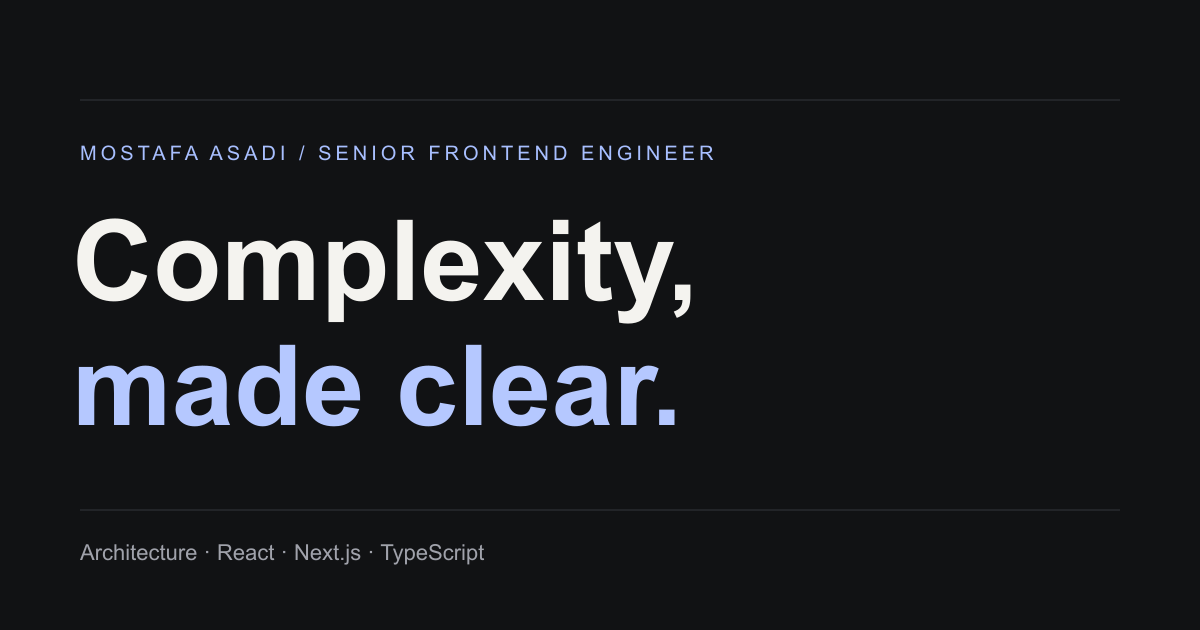
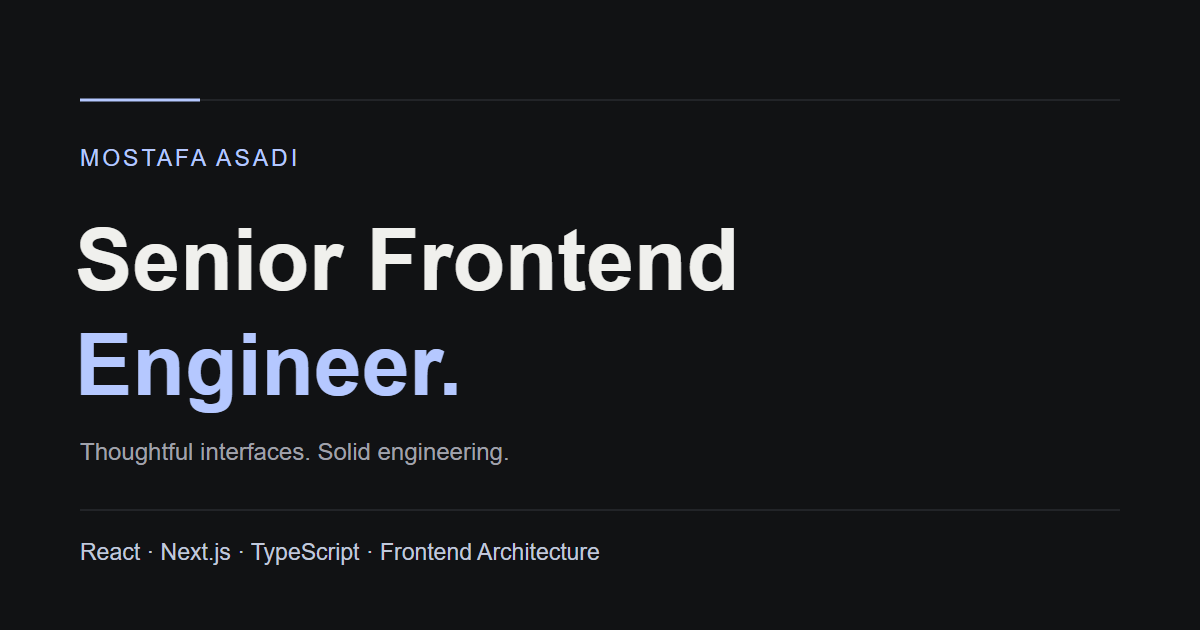
Improve portfolio SEO and search discovery metadata

diff --git a/tests/portfolio.spec.ts b/tests/portfolio.spec.ts
@@ -1,6 +1,27 @@
 import { test, expect } from '@playwright/test';
 import AxeBuilder from '@axe-core/playwright';
 
+test('SEO metadata, crawler files, and structured data describe the live site', async ({ page, request }) => {
+  await page.goto('/');
+  await expect(page).toHaveTitle('Mostafa Asadi | Senior Frontend Engineer, React & Next.js');
+  await expect(page.locator('link[rel="canonical"]')).toHaveAttribute('href', 'https://mostafaasadi3.github.io/');
+  await expect(page.locator('meta[property="og:image"]')).toHaveAttribute('content', 'https://mostafaasadi3.github.io/social-card.png');
+  const graph = JSON.parse(await page.locator('script[type="application/ld+json"]').innerText())['@graph'];
+  expect(graph.find((entity: { '@type': string }) => entity['@type'] === 'Person')).toMatchObject({ name: 'Mostafa Asadi', jobTitle: 'Senior Frontend Engineer', sameAs: ['https://github.com/MostafaAsadi3', 'https://www.linkedin.com/in/mostafa-asadi-78a597271/'] });
+  const sitemap = await request.get('/sitemap.xml');
+  expect(sitemap.ok()).toBeTruthy();
+  expect(await sitemap.text()).toContain('<loc>https://mostafaasadi3.github.io/resume/</loc>');
+  expect(await sitemap.text()).not.toContain('404');
+  const robots = await request.get('/robots.txt');
+  expect(await robots.text()).toContain('Sitemap: https://mostafaasadi3.github.io/sitemap.xml');
+  await page.goto('/resume/');
+  await expect(page.locator('link[rel="canonical"]')).toHaveAttribute('href', 'https://mostafaasadi3.github.io/resume/');
+  await expect(page.locator('meta[name="description"]')).toHaveAttribute('content', /resume: senior frontend engineering/);
+  await page.goto('/404.html');
+  await expect(page.locator('meta[name="robots"]')).toHaveAttribute('content', 'noindex, follow');
+  await expect(page.locator('link[rel="canonical"]')).toHaveCount(0);
+});
+
 test('engineering layers support pointer and keyboard selection and pause offscreen', async ({ page }) => {
   await page.emulateMedia({ reducedMotion: 'no-preference' });
   await page.goto('/');

diff --git a/src/pages/sitemap.xml.ts b/src/pages/sitemap.xml.ts
@@ -1,0 +1,11 @@
+import type { APIRoute } from 'astro';
+
+export const GET: APIRoute = ({ site }) => {
+  const base = import.meta.env.BASE_URL;
+  const pages = [base, `${base.replace(/\/$/, '')}/resume/`];
+  const escapeXml = (value: string) => value.replace(/&/g, '&amp;').replace(/</g, '&lt;').replace(/"/g, '&quot;');
+  return new Response(`<?xml version="1.0" encoding="UTF-8"?>
+<urlset xmlns="http://www.sitemaps.org/schemas/sitemap/0.9">${pages.map(path => `<url><loc>${escapeXml(new URL(path, site!).href)}</loc></url>`).join('')}</urlset>`, {
+    headers: { 'Content-Type': 'application/xml; charset=utf-8' },
+  });
+};

diff --git a/src/data/portfolio.ts b/src/data/portfolio.ts
@@ -5,7 +5,7 @@ export const profile = {
   github: 'https://github.com/MostafaAsadi3',
   linkedin: 'https://www.linkedin.com/in/mostafa-asadi-78a597271/',
   description:
-    'Senior Frontend Engineer focused on frontend architecture, React, Next.js, TypeScript, and thoughtful web experiences.',
+    'Mostafa Asadi, Senior Frontend Engineer specializing in React, Next.js and TypeScript. Explore banking projects, frontend architecture and selected work.',
 };
 
 export interface Expertise {

diff --git a/src/pages/robots.txt.ts b/src/pages/robots.txt.ts
@@ -1,0 +1,6 @@
+import type { APIRoute } from 'astro';
+
+export const GET: APIRoute = ({ site }) => new Response(
+  `User-agent: *\nAllow: /\n\nSitemap: ${new URL(`${import.meta.env.BASE_URL.replace(/\/$/, '')}/sitemap.xml`, site!).href}\n`,
+  { headers: { 'Content-Type': 'text/plain; charset=utf-8' } },
+);

diff --git a/README.md b/README.md
@@ -80,4 +80,10 @@ To use an installed Chromium browser instead of downloading one, set `PLAYWRIGHT
 - Reduced-motion preferences, visible focus states, a skip link, and content that remains visible if JavaScript is unavailable.
 - Static résumé and 404 routes; locally bundled Latin fonts; custom social preview artwork.
 
-The project has no public deployment until connected to the owner’s GitHub repository and its Pages workflow runs successfully.
+## Search engine metadata
+
+Page titles and descriptions, canonical URLs, Person / WebSite / WebPage structured data, and social preview metadata are generated in the shared layout. The resume has its own metadata; the 404 page is marked `noindex`.
+
+`/sitemap.xml` lists the home and resume pages. `/robots.txt` allows crawling and points to the sitemap. Production URLs follow `SITE_URL` and `BASE_PATH`, with the current public site as the default origin.
+
+After deployment, the owner can verify the URL-prefix property in Google Search Console and submit `sitemap.xml`. Search indexing and rankings are controlled by search engines, not guaranteed by these changes.
